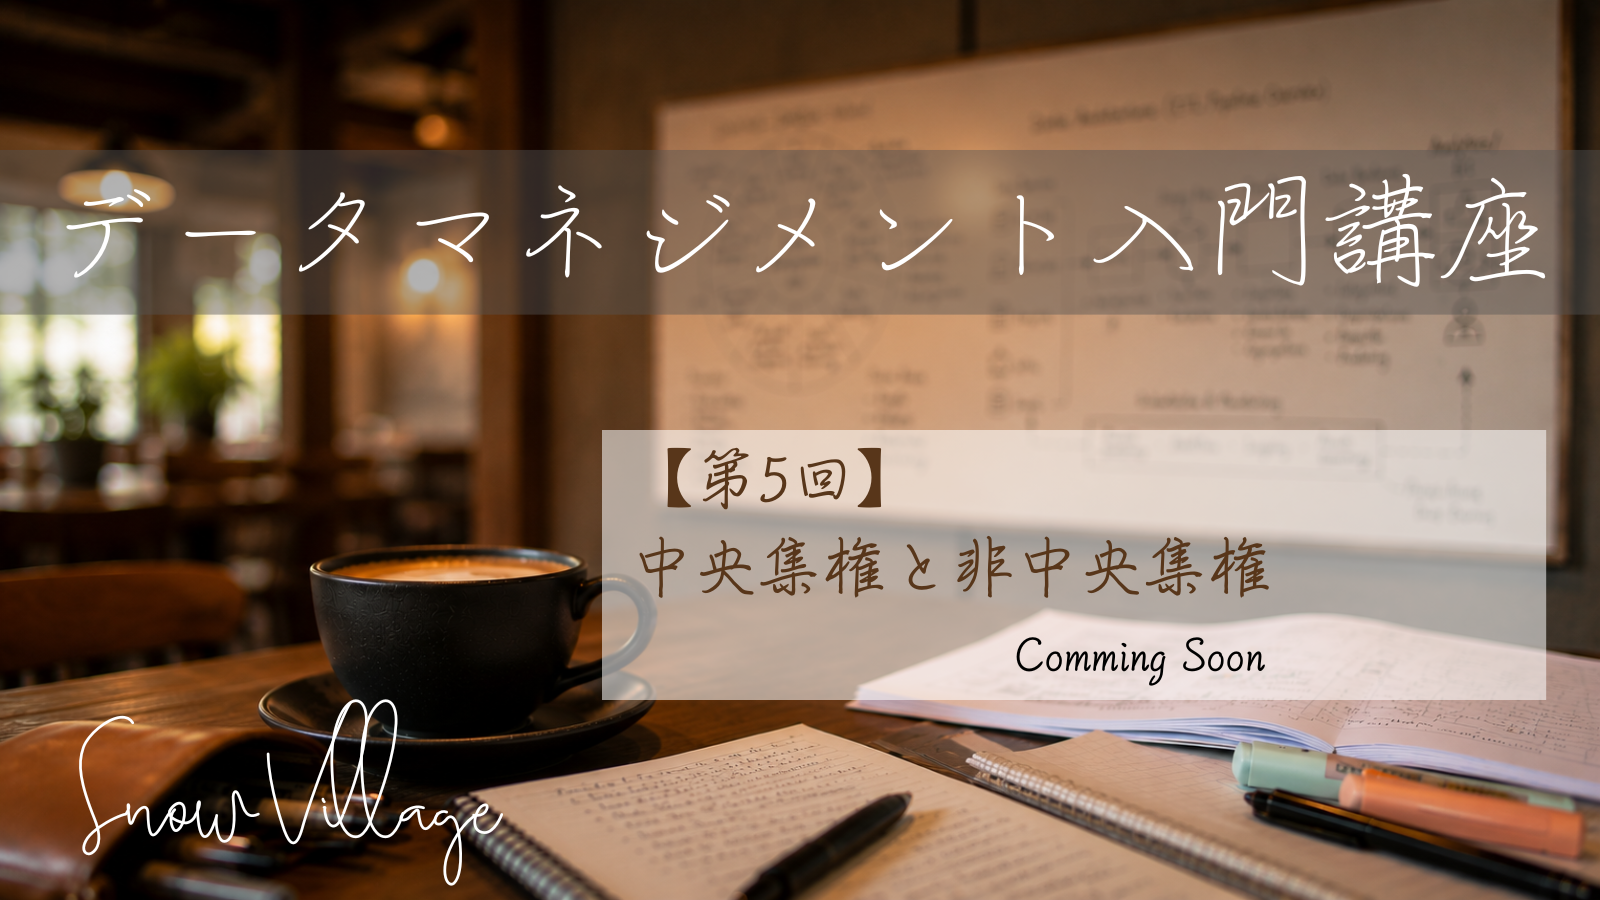
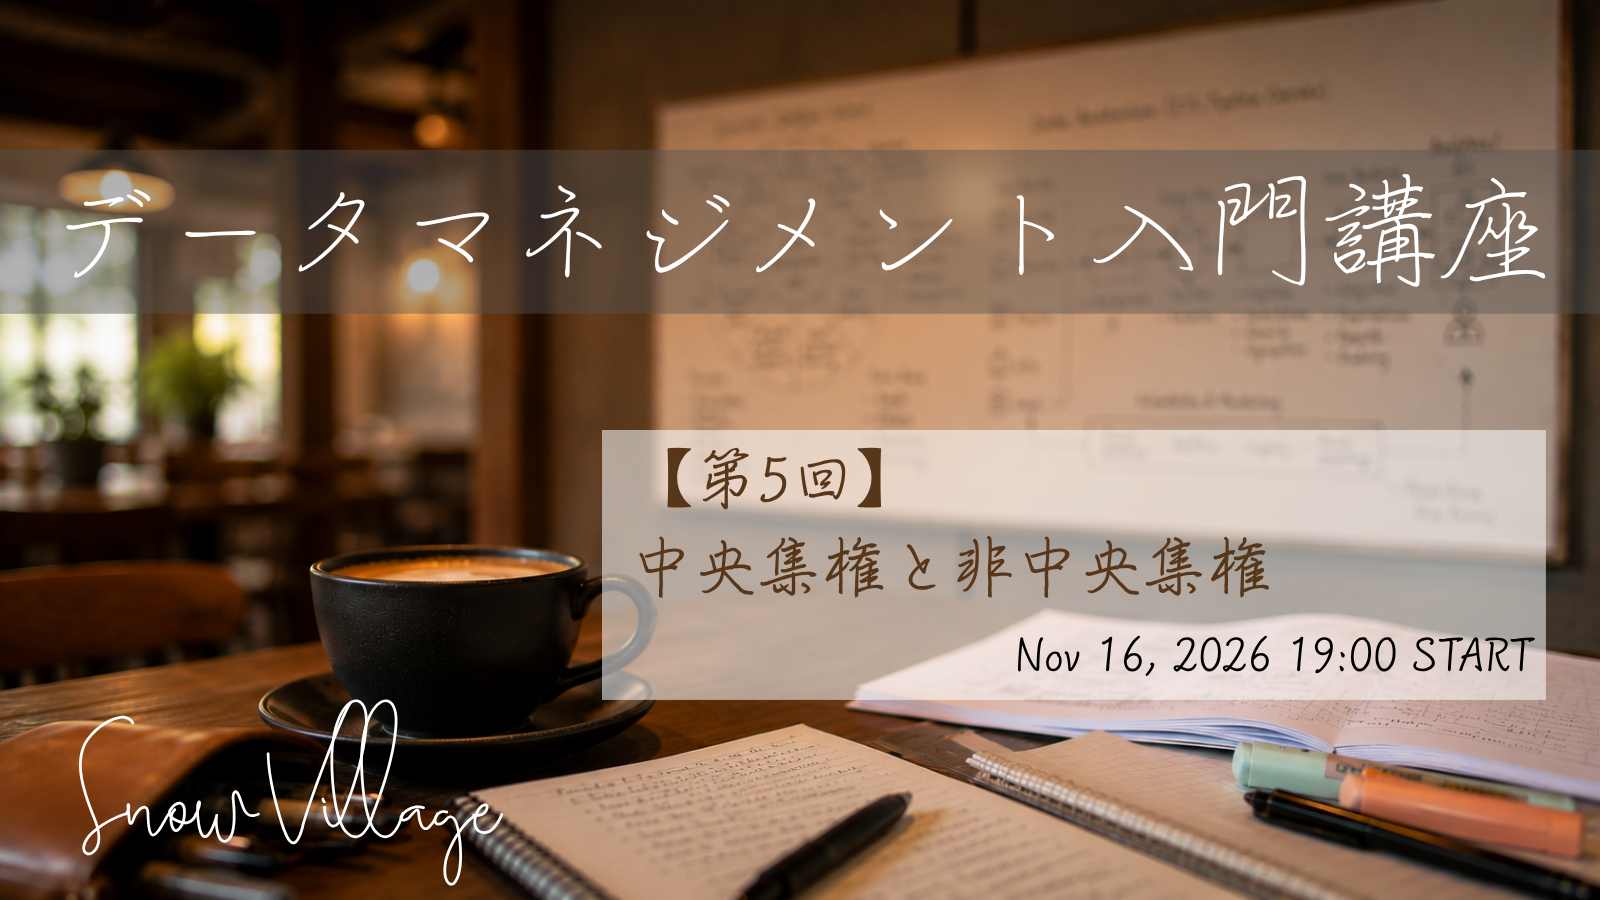
第 5 回準備: TechPlay 募集開始 (11/16 月) と講師・紹介文の反映

Changed region(s): [[0.625, 0.6844, 0.9688, 0.7467]]

diff --git a/index.html b/index.html
@@ -127,14 +127,14 @@
 
         <!-- 第 5 回 -->
         <li class="session">
-          <div class="session-thumb session-thumb-overlay session-thumb-overlay--coming">
-            <img src="images/datamanagement-05.png" alt="第5回 中央集権と非中央集権（メッシュ、ファブリック） サムネイル">
-            <span class="thumb-overlay-text">Coming Soon</span>
-          </div>
+          <a class="session-thumb session-thumb-overlay session-thumb-overlay--cta" href="https://techplay.jp/event/1002052" target="_blank" rel="noopener" aria-label="第5回 TechPlay で申し込み（新しいタブ）">
+            <img src="images/datamanagement-05.png" alt="第5回 中央集権と非中央集権（メッシュ、ファブリック） サムネイル（11/16 月 19:00 開催）">
+            <span class="thumb-overlay-text">TechPlay で申し込み受付中</span>
+          </a>
           <div class="session-body">
             <h3 class="brush-heading session-title">第5回: 中央集権と非中央集権（メッシュ、ファブリック）</h3>
-            <p class="session-speaker">講師: TBA</p>
-            <p class="session-desc is-placeholder">（説明文を準備中）</p>
+            <p class="session-speaker">講師: 株式会社NTTドコモ　松原 侑哉 氏</p>
+            <p class="session-desc">データを一か所に集める「中央集権」と、各部門が主体となる「非中央集権」。その違いを、近年注目の「データメッシュ」「データファブリック」の特徴とあわせて解説します。組織の成長に応じてデータ基盤をどう育てていくか、一緒に考えましょう！</p>
             <div class="session-links">
               <a class="link-label" href="#" aria-disabled="true" aria-label="第 5 回 YouTube（公開準備中）"><img src="images/youtube.png" alt="YouTube" class="handwritten"></a>
               <a class="link-label" href="#" aria-disabled="true" aria-label="第 5 回 資料（公開準備中）"><img src="images/slide.png" alt="資料" class="handwritten"></a>
@@ -205,8 +205,8 @@
   <aside class="floating-panel" aria-label="次回開催の案内・運営情報">
     <section class="info-card">
       <p class="info-eyebrow">Next session</p>
-      <p>次回は <strong>第 5 回「中央集権と非中央集権（メッシュ、ファブリック）」</strong>を予定しています。日程は未定で、<strong>10 月頃の開催</strong>に向けて調整中です。</p>
-      <p>決定次第、本ページと SnowVillage Slack の <code>#data-management</code> チャンネルでご案内します。</p>
+      <p>次回は <strong>第 5 回</strong>、<strong>11/16 (月)</strong> にオンラインで開催します。リアルタイム視聴は以下からお申し込みください。</p>
+      <p><a href="https://techplay.jp/event/1002052" target="_blank" rel="noopener">TechPlay で申し込む →</a></p>
     </section>
     <section class="info-card">
       <p class="info-eyebrow">Community</p>
@@ -219,8 +219,8 @@
     <div class="bottom-info-grid">
       <section class="info-card">
         <p class="info-eyebrow">Next session</p>
-        <p>次回は <strong>第 5 回「中央集権と非中央集権（メッシュ、ファブリック）」</strong>を予定しています。日程は未定で、<strong>10 月頃の開催</strong>に向けて調整中です。</p>
-        <p>決定次第、本ページと SnowVillage Slack の <code>#data-management</code> チャンネルでご案内します。</p>
+        <p>次回は <strong>第 5 回</strong>、<strong>11/16 (月)</strong> にオンラインで開催します。リアルタイム視聴は以下からお申し込みください。</p>
+        <p><a href="https://techplay.jp/event/1002052" target="_blank" rel="noopener">TechPlay で申し込む →</a></p>
       </section>
       <section class="info-card">
         <p class="info-eyebrow">Community</p>
